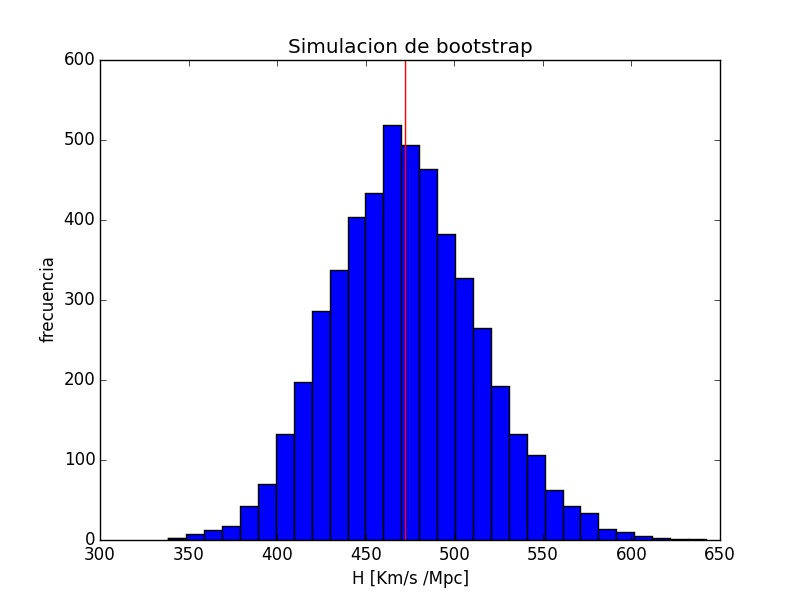
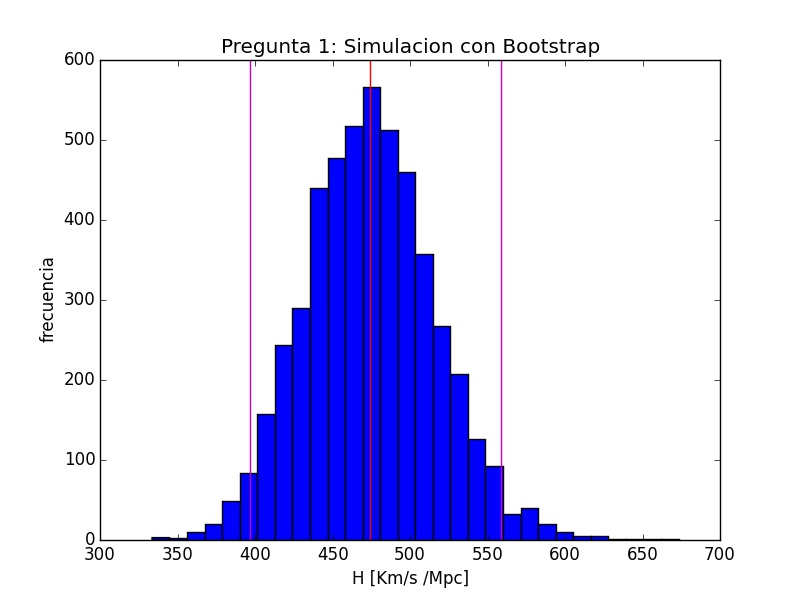
agrega p2 bien

Changed region(s): [[0.1875, 0.12, 0.8438, 0.93], [0.2812, 0.06, 0.75, 0.12], [0.875, 0.9, 0.9062, 0.93]]

diff --git a/p2.py b/p2.py
@@ -4,7 +4,7 @@
 from __future__ import division
 import numpy as np
 import matplotlib.pyplot as plt
-from scipy.optimize import leastsq
+from scipy.optimize import (leastsq, curve_fit)
 from scipy import optimize as opt
 import os
 
@@ -13,13 +13,13 @@ Este script calcula la constante de Hubble con los primeros datos
 experimentales.
 '''
 
-def datos(nombre):
-'''
-Descarga los datos de un archivo y los retorna en columnas
-'''
-    file_path = os.path.join('data', 'nombre')
-    D = np.loadtxt(fname=file_path, usecols=(0,))
-    v = np.loadtxt(fname=file_path, usecols=(1,))
+def datos():
+    '''
+    Descarga los datos de un archivo y los retorna en columnas
+    '''
+    file_path = os.path.join('data', 'SNIa.dat')
+    D = np.loadtxt(fname=file_path, usecols=(-2,))
+    v = np.loadtxt(fname=file_path, usecols=(-1,))
     return D, v
 
 
@@ -40,7 +40,7 @@ def func_a_minimizar_1cf(x, H):
     Funcion a minimizar con curve_fit, modelo 1
     '''
     params = H
-    return f_modelo_1(params, x)
+    return f_modelo1(params, x)
 
 
 def func_a_minimizar_2cf(v, H):
@@ -48,9 +48,9 @@ def func_a_minimizar_2cf(v, H):
     Funcion a minimizar con curve_fit, modelo 2
     '''
     params = H
-    return f_modelo_2(params, v)
+    return f_modelo2(params, v)
 
-def bootstrap(d, v, H_0):
+def bootstrap(d, v):
     '''
     simulacion de bootstrap para encontrar el
     intervalo de  confianza (95%), retorna el valor promedio de H tanto
@@ -58,69 +58,64 @@ def bootstrap(d, v, H_0):
     histogramas de para los Hs
     '''
     N = len(d)
-    N_boot = 10000
+    N_boot = 5000
     H1 = np.zeros(N_boot)
     H2 = np.zeros(N_boot)
     H_prom = np.zeros(N_boot)
+    mean_values_d = np.zeros(N_boot)
+    mean_values_v = np.zeros(N_boot)
     for i in range(N_boot):
         s = np.random.randint(low=0, high=N, size=N)
         mean_values_d[i] = np.mean(d[s])
         mean_values_v[i] = np.mean(v[s])
-        fake_data = data[s][s]
-        distancia = fake_data[:, 0]
-        vel = fake_data[:, 1]
-        H_optimo_1, a_covarianza_1 = curve_fit(func_a_minimizar_1,
-                                               distancia, vel, 2)
-        H_optimo_2, a_covarianza_2 = curve_fit(func_a_minimizar_2,
-                                               vel, distancia, 2)
+        H_optimo_1, a_covarianza_1 = curve_fit(func_a_minimizar_1cf,
+                                               d[s], v[s], 2)
+        H_optimo_2, a_covarianza_2 = curve_fit(func_a_minimizar_2cf,
+                                               v[s], d[s], 2)
         H_prom[i] = (H_optimo_2 + H_optimo_1) / 2
         H1[i] = H_optimo_1
         H2[i] = H_optimo_2
     H_prom_0 = np.mean(H_prom)
     H1_0 = np.mean(H1)
     H2_0 = np.mean(H2)
+    Hprom = np.sort(H_prom)
+    limite_bajo = Hprom[int(N_boot * 0.025)]
+    limite_alto = Hprom[int(N_boot * 0.975)]
     fig2, ax2 = plt.subplots()
-    plt.hist(H1, bins=30)
-    plt.axvline(H1_0, color='r')
-    plt.hist(H2, bins=30)
-    plt.axvline(H2_0, color='r')
-    plt.hist(H_prom, bins=30)
+    plt.hist(H_prom, bins=30, facecolor='b')
     plt.axvline(H_prom_0, color='r')
-    ax2.set_title("Simulacion de bootstrap")
+    plt.axvline(limite_bajo, color='m')
+    plt.axvline(limite_alto, color='m')
+    ax2.set_title("Pregunta 2: Simulacion con Bootstrap")
     ax2.set_xlabel("H [Km/s /Mpc]")
     ax2.set_ylabel("frecuencia")
-    # plt.savefig("bootstrap_p2.jpg")
-    H1 = np.sort(H1)
-    H2 = np.sort(H2)
-    Hprom = np.sort(H_prom)
-    limite_bajo = H[int(N_boot * 0.025)]
-    limite_alto = H[int(N_boot * 0.975)]
+    plt.savefig("Histograma_p2.jpg")
+
     print "El intervalo de confianza al 95% es: [{}:{}]".format(limite_bajo,
                                                                 limite_alto)
-    return [H_prom_0, H1_0, H2_0]
+    return H_prom_0
 
 
-def aprox(distancia, vel, H1, H2, H_prom):
+def aprox(distancia, vel, H_prom):
     '''
     recibe el arreglo de distancias ,velocidades y Hs, las grafica y compara
     con los datos de muestra
     '''
     ax, fig = plt.subplots()
-    plt.scatter(distancia, vel, label="Datos originales")
-    fig.plot(distancia, f_modelo_1(H1, distancia), label="modelo con V=D*H")
-    fig.plot(f_modelo_2(H2, vel), vel, label="modelo con V/H = D")
+    plt.scatter(distancia, vel, label="Datos originales p1")
     fig.plot(distancia, H_prom*distancia, label="Modelo con H promedio")
-    fig.set_title("Datos originales y ajuste lineal")
+    fig.set_title("Pregunta 2: Datos originales y ajuste lineal")
     fig.set_xlabel("Distancia [Mpc]")
-    fig.set_ylabel("Velocidad [Km/s]polyfit")
+    fig.set_ylabel("Velocidad [Km/s] polyfit")
     plt.legend(loc=2)
     plt.savefig("hubble_p2.jpg")
     plt.show()
 
 # main
 
-name = "data/SNIa.dat"
-# y_scales = ?
-d, v = datos(name)
-H = bootstrap(d, v, H_0)
-aprox(d, v, H[1], H[2], H[0])
+
+np.random.seed(3760)
+d, v = datos()
+H = bootstrap(d, v)
+aprox(d, v, H)
+plt.show()

diff --git a/p1.py b/p1.py
@@ -78,16 +78,19 @@ def bootstrap(d, v):
     H_prom_0 = np.mean(H_prom)
     H1_0 = np.mean(H1)
     H2_0 = np.mean(H2)
-    fig2, ax2 = plt.subplots()
-    plt.hist(H_prom, bins=30)
-    plt.axvline(H_prom_0, color='r')
-    ax2.set_title("Simulacion de bootstrap")
-    ax2.set_xlabel("H [Km/s /Mpc]")
-    ax2.set_ylabel("frecuencia")
-    plt.savefig("Histograma_p1.jpg")
     Hprom = np.sort(H_prom)
     limite_bajo = Hprom[int(N_boot * 0.025)]
     limite_alto = Hprom[int(N_boot * 0.975)]
+    fig2, ax2 = plt.subplots()
+    plt.hist(H_prom, bins=30, facecolor='b')
+    plt.axvline(H_prom_0, color='r')
+    plt.axvline(limite_bajo, color='m')
+    plt.axvline(limite_alto, color='m')
+    ax2.set_title("Pregunta 1: Simulacion con Bootstrap")
+    ax2.set_xlabel("H [Km/s /Mpc]")
+    ax2.set_ylabel("frecuencia")
+    plt.savefig("Histograma_p1.jpg")
+
     print "El intervalo de confianza al 95% es: [{}:{}]".format(limite_bajo,
                                                                 limite_alto)
     return H_prom_0
@@ -101,7 +104,7 @@ def aprox(distancia, vel, H_prom):
     ax, fig = plt.subplots()
     plt.scatter(distancia, vel, label="Datos originales")
     fig.plot(distancia, H_prom*distancia, label="Modelo con H promedio")
-    fig.set_title("Datos originales y ajuste lineal")
+    fig.set_title("Pregunta 1: Datos originales y ajuste lineal")
     fig.set_xlabel("Distancia [Mpc]")
     fig.set_ylabel("Velocidad [Km/s]polyfit")
     plt.legend(loc=2)
@@ -111,7 +114,7 @@ def aprox(distancia, vel, H_prom):
 # main
 
 
-np.random.seed(3760)
+np.random.seed(43760)
 d, v = datos()
 H = bootstrap(d, v)
 aprox(d, v, H)
